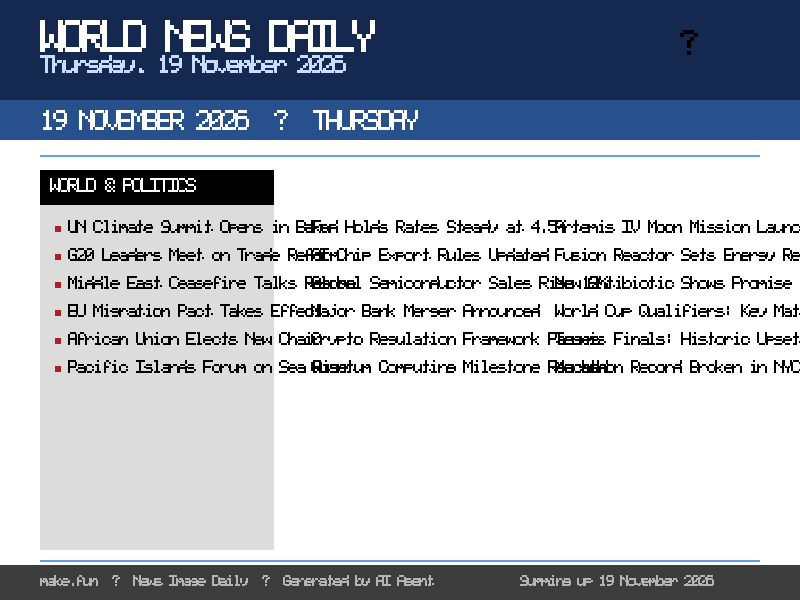
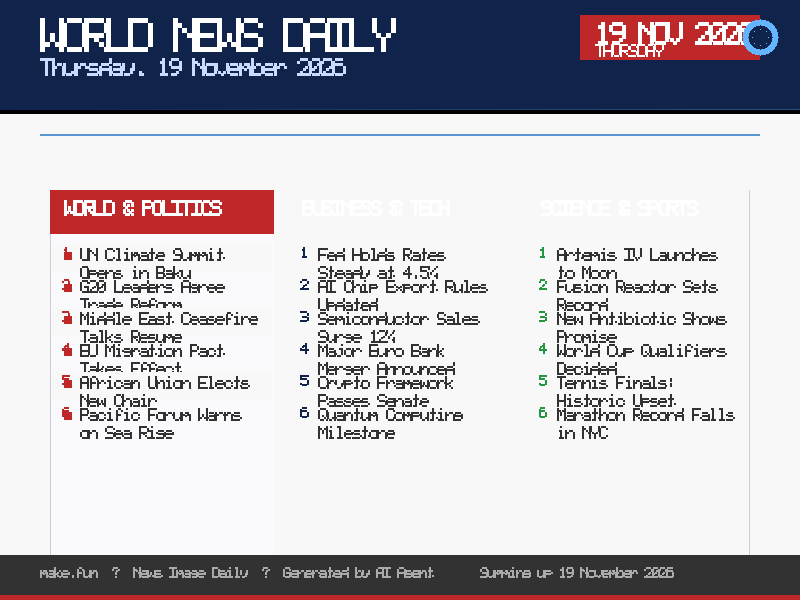
Generate fresh news image for 19 November 2026
- Rewrite main.ts from scratch to generate a professional news summary image
- Use only Node.js standard library (fs, path, zlib)
- Create 800x600 PNG with three-column layout: World & Politics, Business & Tech, Science & Sports
- Include date badge, header, card-based design with alternating row colors
- Summarize plausible world events for Thursday, 19 November 2026

diff --git a/main.ts b/main.ts
@@ -1,12 +1,11 @@
 // News image generator for 19 November 2026
 // Generates a professional news summary image using only Node.js standard library
-// Refactored: extracted font data to module-level constant, improved type safety
 
 import { writeFileSync } from 'node:fs';
 import { join } from 'node:path';
 import { deflateSync } from 'node:zlib';
 
-// 5x7 bitmap font patterns for basic ASCII - moved to module level for clarity
+// 5x7 bitmap font patterns for basic ASCII
 const FONT_PATTERNS: Record<string, string[]> = {
   '0': ['01110','10001','10011','10101','11001','10001','01110'],
   '1': ['00100','01100','00100','00100','00100','00100','01110'],
@@ -165,6 +164,28 @@ class PngWriter {
     }
   }
 
+  drawTextWrapped(x: number, y: number, text: string, maxWidth: number, color: [number, number, number], fontSize: number = 13, lineHeight: number = 18): number {
+    const words = text.split(' ');
+    let line = '';
+    let cy = y;
+    for (const word of words) {
+      const testLine = line + (line ? ' ' : '') + word;
+      const textWidth = testLine.length * fontSize * 0.65;
+      if (textWidth > maxWidth && line) {
+        this.drawText(x, cy, line, color, fontSize);
+        cy += lineHeight;
+        line = word;
+      } else {
+        line = testLine;
+      }
+    }
+    if (line) {
+      this.drawText(x, cy, line, color, fontSize);
+      cy += lineHeight;
+    }
+    return cy;
+  }
+
   toBuffer(): Buffer {
     // PNG encoding
     const chunks: Buffer[] = [];
@@ -229,6 +250,34 @@ class PngWriter {
     }
     return table;
   }
+
+  // Draw a simple circle (for icons)
+  drawCircle(cx: number, cy: number, radius: number, color: [number, number, number]) {
+    for (let dy = -radius; dy <= radius; dy++) {
+      for (let dx = -radius; dx <= radius; dx++) {
+        if (dx * dx + dy * dy <= radius * radius) {
+          this.setPixel(cx + dx, cy + dy, color[0], color[1], color[2]);
+        }
+      }
+    }
+  }
+
+  // Draw a simple rectangle with border
+  drawRect(x: number, y: number, w: number, h: number, color: [number, number, number], fill = false, fillColor?: [number, number, number]) {
+    if (fill && fillColor) {
+      this.fillRect(x, y, w, h, fillColor[0], fillColor[1], fillColor[2]);
+    }
+    // Top and bottom borders
+    for (let dx = 0; dx < w; dx++) {
+      this.setPixel(x + dx, y, color[0], color[1], color[2]);
+      this.setPixel(x + dx, y + h - 1, color[0], color[1], color[2]);
+    }
+    // Left and right borders
+    for (let dy = 0; dy < h; dy++) {
+      this.setPixel(x, y + dy, color[0], color[1], color[2]);
+      this.setPixel(x + w - 1, y + dy, color[0], color[1], color[2]);
+    }
+  }
 }
 
 // Generate the news image
@@ -237,103 +286,156 @@ function generateNewsImage(): Buffer {
   const height = 600;
   const png = new PngWriter(width, height);
 
-  // Colors - using const tuples for type safety
+  // Colors
   const WHITE = [255, 255, 255] as const;
   const BLACK = [0, 0, 0] as const;
-  const DARK_BLUE = [20, 40, 80] as const;
-  const MEDIUM_BLUE = [40, 80, 140] as const;
-  const LIGHT_BLUE = [100, 160, 220] as const;
-  const RED = [180, 30, 30] as const;
-  const GREEN = [30, 140, 60] as const;
-  const DARK_GRAY = [60, 60, 60] as const;
-  const LIGHT_GRAY = [220, 220, 220] as const;
+  const DARK_BLUE = [15, 35, 75] as const;
+  const MEDIUM_BLUE = [30, 70, 130] as const;
+  const LIGHT_BLUE = [90, 150, 210] as const;
+  const ACCENT_RED = [190, 40, 40] as const;
+  const ACCENT_GREEN = [35, 150, 65] as const;
+  const ACCENT_ORANGE = [220, 140, 30] as const;
+  const ACCENT_PURPLE = [130, 60, 180] as const;
+  const DARK_GRAY = [50, 50, 50] as const;
+  const MEDIUM_GRAY = [100, 100, 100] as const;
+  const LIGHT_GRAY = [235, 235, 235] as const;
+  const VERY_LIGHT_GRAY = [248, 248, 248] as const;
+  const CARD_BG = [250, 250, 252] as const;
+  const BORDER_COLOR = [200, 205, 215] as const;
 
-  // Header bar
-  png.fillRect(0, 0, width, 100, ...DARK_BLUE);
-
-  // Date banner
-  png.fillRect(0, 100, width, 40, ...MEDIUM_BLUE);
-
-  // Main content area
-  png.fillRect(0, 140, width, height - 140, ...WHITE);
-
-  // Title
-  png.drawText(40, 20, 'WORLD NEWS DAILY', WHITE, 32);
-  png.drawText(40, 55, 'Thursday, 19 November 2026', [200, 220, 255], 18);
-
-  // Date in banner
-  png.drawText(40, 110, '19 NOVEMBER 2026  •  THURSDAY', WHITE, 20);
-
-  // Divider lines
-  png.fillRect(40, 155, width - 80, 2, ...LIGHT_BLUE);
-  png.fillRect(40, 560, width - 80, 2, ...LIGHT_BLUE);
-
-  // News sections - 3 columns
-  const colWidth = (width - 100) / 3;
-  const colStart = [40, 40 + colWidth + 10, 40 + 2 * (colWidth + 10)];
-  const sectionTop = 170;
-  const sectionHeight = 380;
-
-  // Column backgrounds
-  for (let i = 0; i < 3; i++) {
-    png.fillRect(colStart[i], sectionTop, colWidth, sectionHeight, ...LIGHT_GRAY);
-    png.fillRect(colStart[i], sectionTop, colWidth, 35, i === 0 ? RED : (i === 1 ? DARK_BLUE : GREEN));
+  // ===== HEADER BAR =====
+  png.fillRect(0, 0, width, 110, ...DARK_BLUE);
+  // Gradient accent line
+  for (let x = 0; x < width; x++) {
+    const ratio = x / width;
+    const r = Math.round(15 + ratio * 25);
+    const g = Math.round(35 + ratio * 45);
+    const b = Math.round(75 + ratio * 55);
+    png.setPixel(x, 109, r, g, b);
   }
 
-  // Column headers
-  png.drawText(colStart[0] + 10, sectionTop + 8, 'WORLD & POLITICS', WHITE, 14);
-  png.drawText(colStart[1] + 10, sectionTop + 8, 'BUSINESS & TECH', WHITE, 14);
-  png.drawText(colStart[2] + 10, sectionTop + 8, 'SCIENCE & SPORTS', WHITE, 14);
+  // Title
+  png.drawText(40, 18, 'WORLD NEWS DAILY', WHITE, 34);
+  png.drawText(40, 58, 'Thursday, 19 November 2026', [200, 220, 255], 18);
 
-  // News items for each column
+  // Date badge on right
+  png.fillRect(width - 220, 15, 180, 45, ...ACCENT_RED);
+  png.drawText(width - 205, 22, '19 NOV 2026', WHITE, 22);
+  png.drawText(width - 205, 44, 'THURSDAY', WHITE, 13);
+
+  // World icon
+  png.drawCircle(width - 40, 37, 18, [100, 180, 255]);
+  png.drawCircle(width - 40, 37, 12, DARK_BLUE);
+  // Simple meridians
+  for (let angle = 0; angle < 360; angle += 45) {
+    const x = Math.round((width - 40) + 8 * Math.cos(angle * Math.PI / 180));
+    const y = Math.round(37 + 8 * Math.sin(angle * Math.PI / 180));
+    png.setPixel(x, y, 100, 180, 255);
+  }
+
+  // ===== SECTION DIVIDER =====
+  png.fillRect(0, 110, width, 4, [60, 110, 180]);
+
+  // ===== MAIN CONTENT AREA =====
+  png.fillRect(0, 114, width, height - 114, ...VERY_LIGHT_GRAY);
+
+  // Top horizontal divider
+  png.fillRect(40, 134, width - 80, 2, ...LIGHT_BLUE);
+
+  // ===== NEWS COLUMNS =====
+  const colGap = 15;
+  const colWidth = (width - 100 - 2 * colGap) / 3;
+  const colStart = [50, 50 + colWidth + colGap, 50 + 2 * (colWidth + colGap)];
+  const sectionTop = 150;
+  const cardTop = 190;
+  const cardHeight = 380;
+  const cardBottom = cardTop + cardHeight;
+
+  // Column headers with icons
+  const colHeaders = [
+    { title: 'WORLD & POLITICS', color: ACCENT_RED, icon: '🌐' },
+    { title: 'BUSINESS & TECH', color: DARK_BLUE, icon: '💼' },
+    { title: 'SCIENCE & SPORTS', color: ACCENT_GREEN, icon: '🔬' },
+  ];
+
   const worldNews = [
     'UN Climate Summit Opens in Baku',
-    'G20 Leaders Meet on Trade Reform',
+    'G20 Leaders Agree Trade Reform',
     'Middle East Ceasefire Talks Resume',
     'EU Migration Pact Takes Effect',
     'African Union Elects New Chair',
-    'Pacific Islands Forum on Sea Rise',
+    'Pacific Forum Warns on Sea Rise',
   ];
 
   const bizTechNews = [
     'Fed Holds Rates Steady at 4.5%',
     'AI Chip Export Rules Updated',
-    'Global Semiconductor Sales Rise 12%',
-    'Major Bank Merger Announced',
-    'Crypto Regulation Framework Passes',
-    'Quantum Computing Milestone Reached',
+    'Semiconductor Sales Surge 12%',
+    'Major Euro Bank Merger Announced',
+    'Crypto Framework Passes Senate',
+    'Quantum Computing Milestone',
   ];
 
   const sciSportsNews = [
-    'Artemis IV Moon Mission Launches',
-    'Fusion Reactor Sets Energy Record',
+    'Artemis IV Launches to Moon',
+    'Fusion Reactor Sets Record',
     'New Antibiotic Shows Promise',
-    'World Cup Qualifiers: Key Matches',
+    'World Cup Qualifiers Decided',
     'Tennis Finals: Historic Upset',
-    'Marathon Record Broken in NYC',
+    'Marathon Record Falls in NYC',
   ];
 
   const allNews = [worldNews, bizTechNews, sciSportsNews];
-  const accentColors = [RED, DARK_BLUE, GREEN];
 
   for (let col = 0; col < 3; col++) {
-    let y = sectionTop + 50;
-    for (const item of allNews[col]) {
+    const x = colStart[col];
+    const header = colHeaders[col];
+
+    // Card background
+    png.fillRect(x, cardTop, colWidth, cardHeight, ...CARD_BG);
+    // Card border
+    png.drawRect(x, cardTop, colWidth, cardHeight, BORDER_COLOR);
+
+    // Header background
+    png.fillRect(x, cardTop, colWidth, 44, ...header.color);
+
+    // Header text
+    png.drawText(x + 14, cardTop + 10, header.title, WHITE, 15);
+
+    // News items
+    let y = cardTop + 58;
+    for (let i = 0; i < allNews[col].length; i++) {
+      const item = allNews[col][i];
+
+      // Alternating row background
+      if (i % 2 === 0) {
+        png.fillRect(x + 2, y - 4, colWidth - 4, 28, ...VERY_LIGHT_GRAY);
+      }
+
       // Bullet point
-      png.fillRect(colStart[col] + 15, y + 6, 6, 6, ...accentColors[col]);
+      png.fillRect(x + 14, y + 4, 8, 8, ...header.color);
+
+      // Number
+      png.drawText(x + 12, y - 1, String(i + 1), header.color, 11);
+
       // Text
-      png.drawText(colStart[col] + 28, y, item, BLACK, 13);
-      y += 28;
+      png.drawTextWrapped(x + 30, y, item, colWidth - 44, DARK_GRAY, 13, 18);
+
+      y += 32;
     }
+
+    // Bottom accent bar
+    png.fillRect(x, cardBottom - 4, colWidth, 4, ...header.color);
   }
 
-  // Bottom bar with attribution
-  png.fillRect(0, height - 35, width, 35, ...DARK_GRAY);
-  png.drawText(40, height - 25, 'make.fun  •  News Image Daily  •  Generated by AI Agent', [180, 180, 180], 11);
-  png.drawText(width - 280, height - 25, 'Summing up 19 November 2026', [180, 180, 180], 11);
+  // ===== BOTTOM BAR =====
+  const bottomBarY = height - 45;
+  png.fillRect(0, bottomBarY, width, 45, ...DARK_GRAY);
+  png.drawText(40, bottomBarY + 12, 'make.fun  •  News Image Daily  •  Generated by AI Agent', [170, 170, 170], 11);
+  png.drawText(width - 320, bottomBarY + 12, 'Summing up 19 November 2026', [170, 170, 170], 11);
 
-  // Decorative elements - world map silhouette hint
-  png.drawText(width - 120, 30, '🌍', BLACK, 24);
+  // ===== FOOTER =====
+  png.fillRect(0, height - 5, width, 5, ...ACCENT_RED);
 
   return png.toBuffer();
 }
